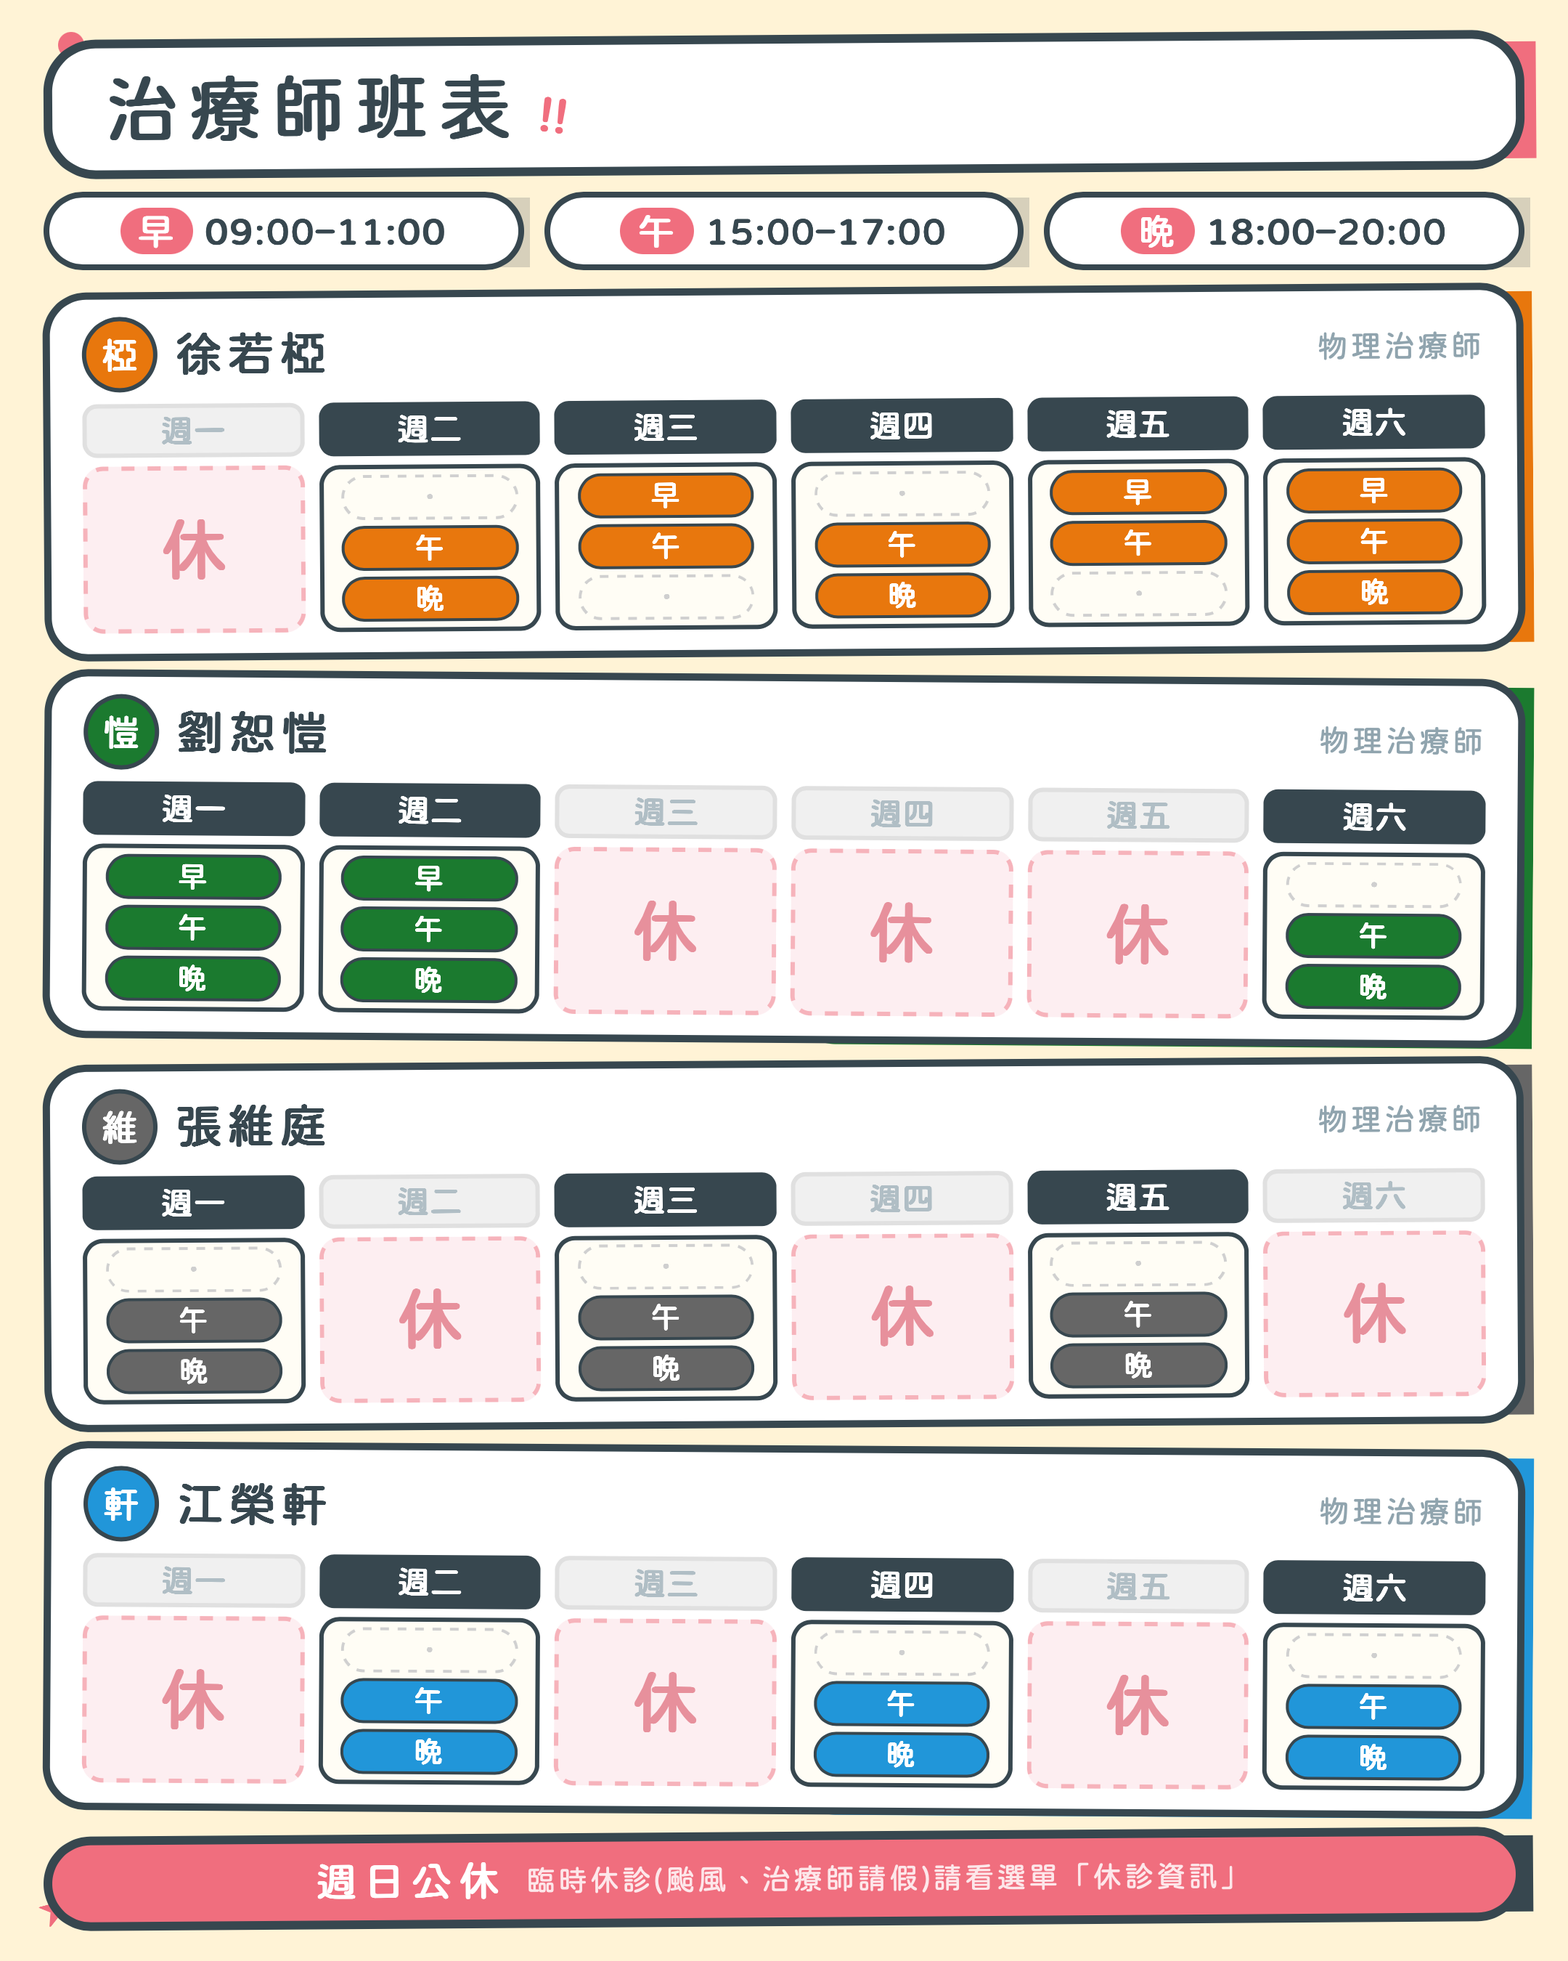
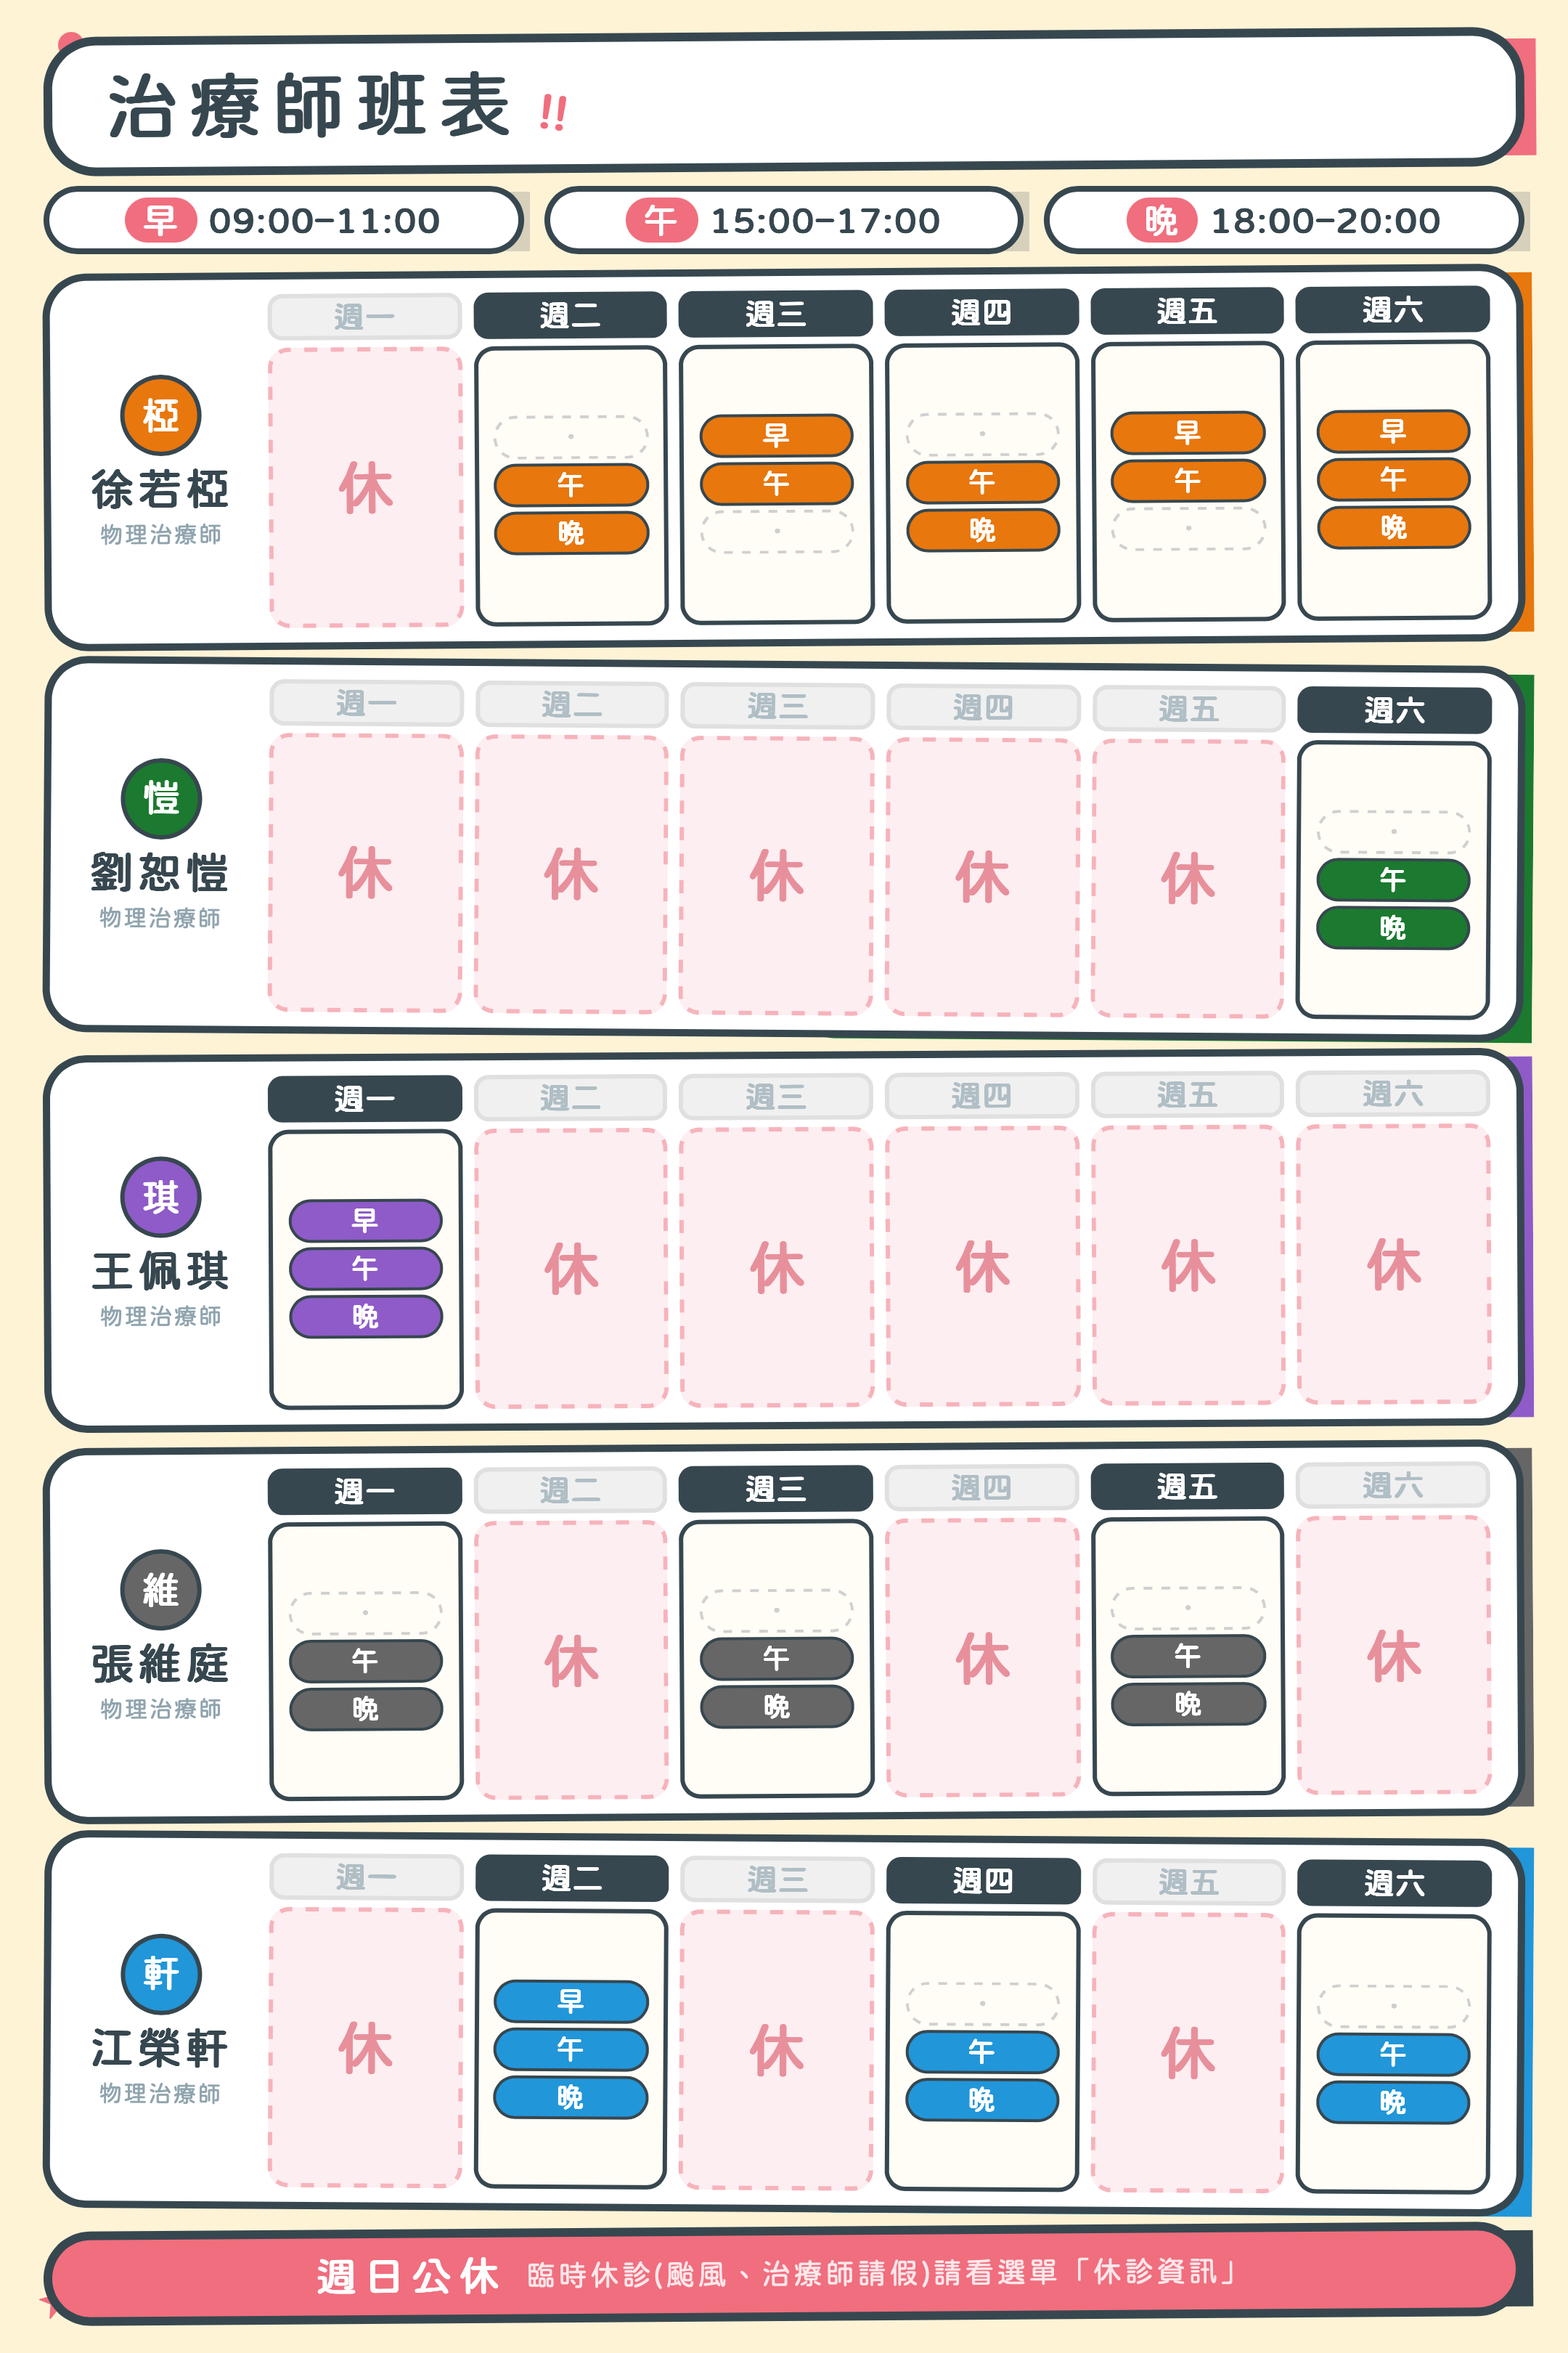
LINE 治療師班表圖更新(加王佩琪週一整天,班表調整);快取 v4

diff --git a/line/schedule.html b/line/schedule.html
@@ -15,7 +15,7 @@
 </head>
 <body>
 <div class="wrap">
-  <img src="schedule.png?v=3" alt="治療師班表">
+  <img src="schedule.png?v=4" alt="治療師班表">
   <a class="btn" href="https://liff.line.me/2010100504-7lHo8M0R">📅 我要線上預約</a>
 </div>
 </body>
